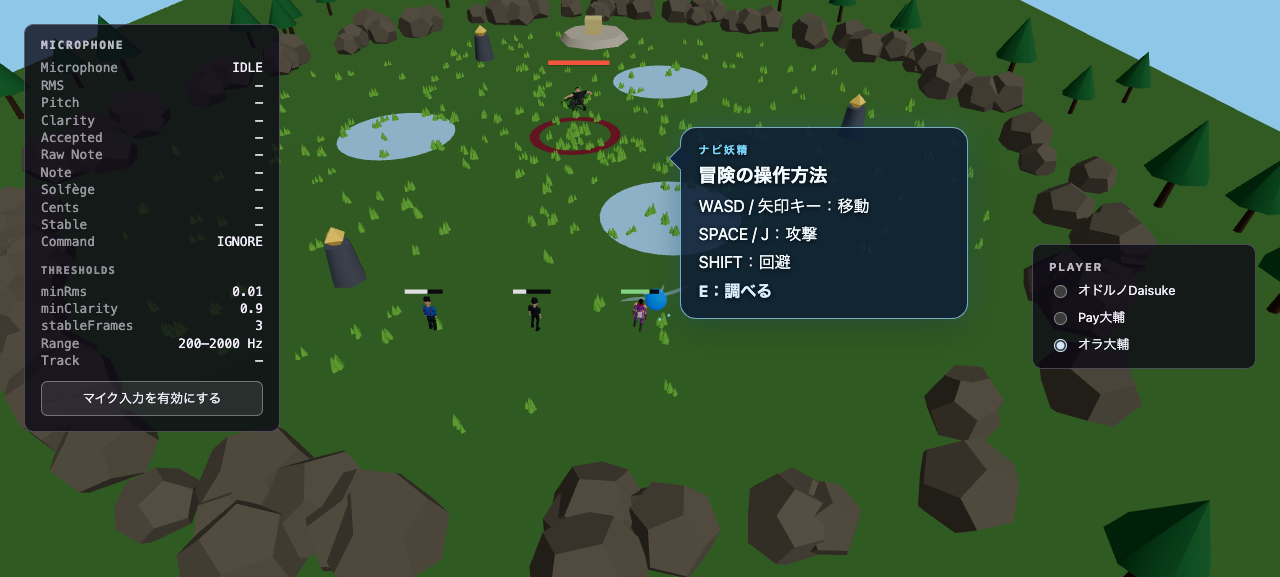
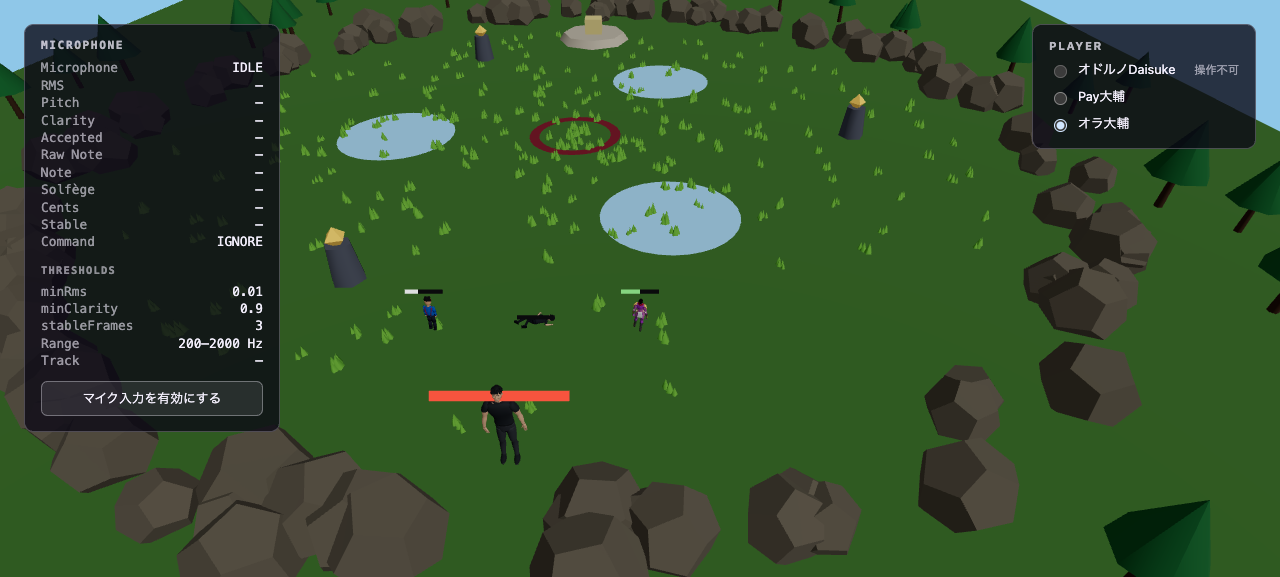
fix: 操作キャラ切り替えパネルを右上へ置く

diff --git a/src/ui/player-switch/PlayerSwitch.module.css b/src/ui/player-switch/PlayerSwitch.module.css
@@ -1,8 +1,8 @@
-/* EffectSettings と同じ見た目。並べて置くので、そちらの上へ積む。 */
+/* 見た目は EffectSettings と揃える。位置は右上で、右下の演出設定とは離す。 */
 .panel {
   position: absolute;
   right: 1.5rem;
-  bottom: 13rem;
+  top: 1.5rem;
   z-index: 3;
   display: flex;
   flex-direction: column;
